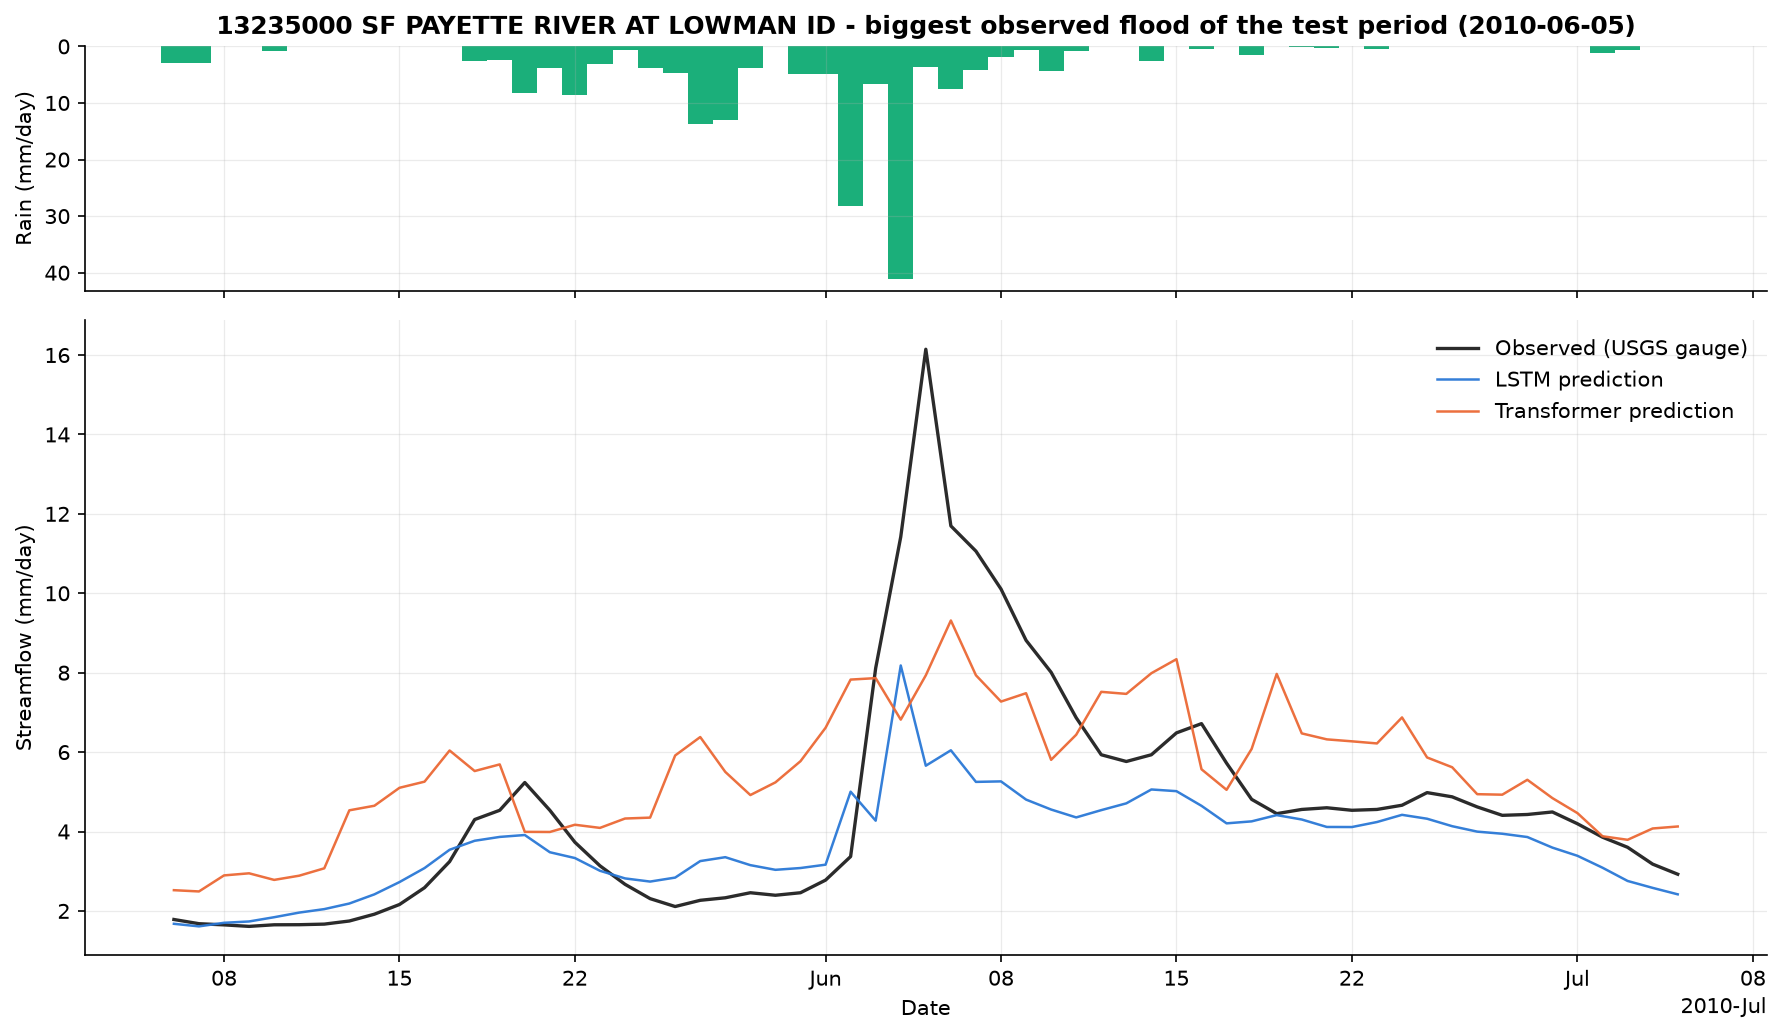
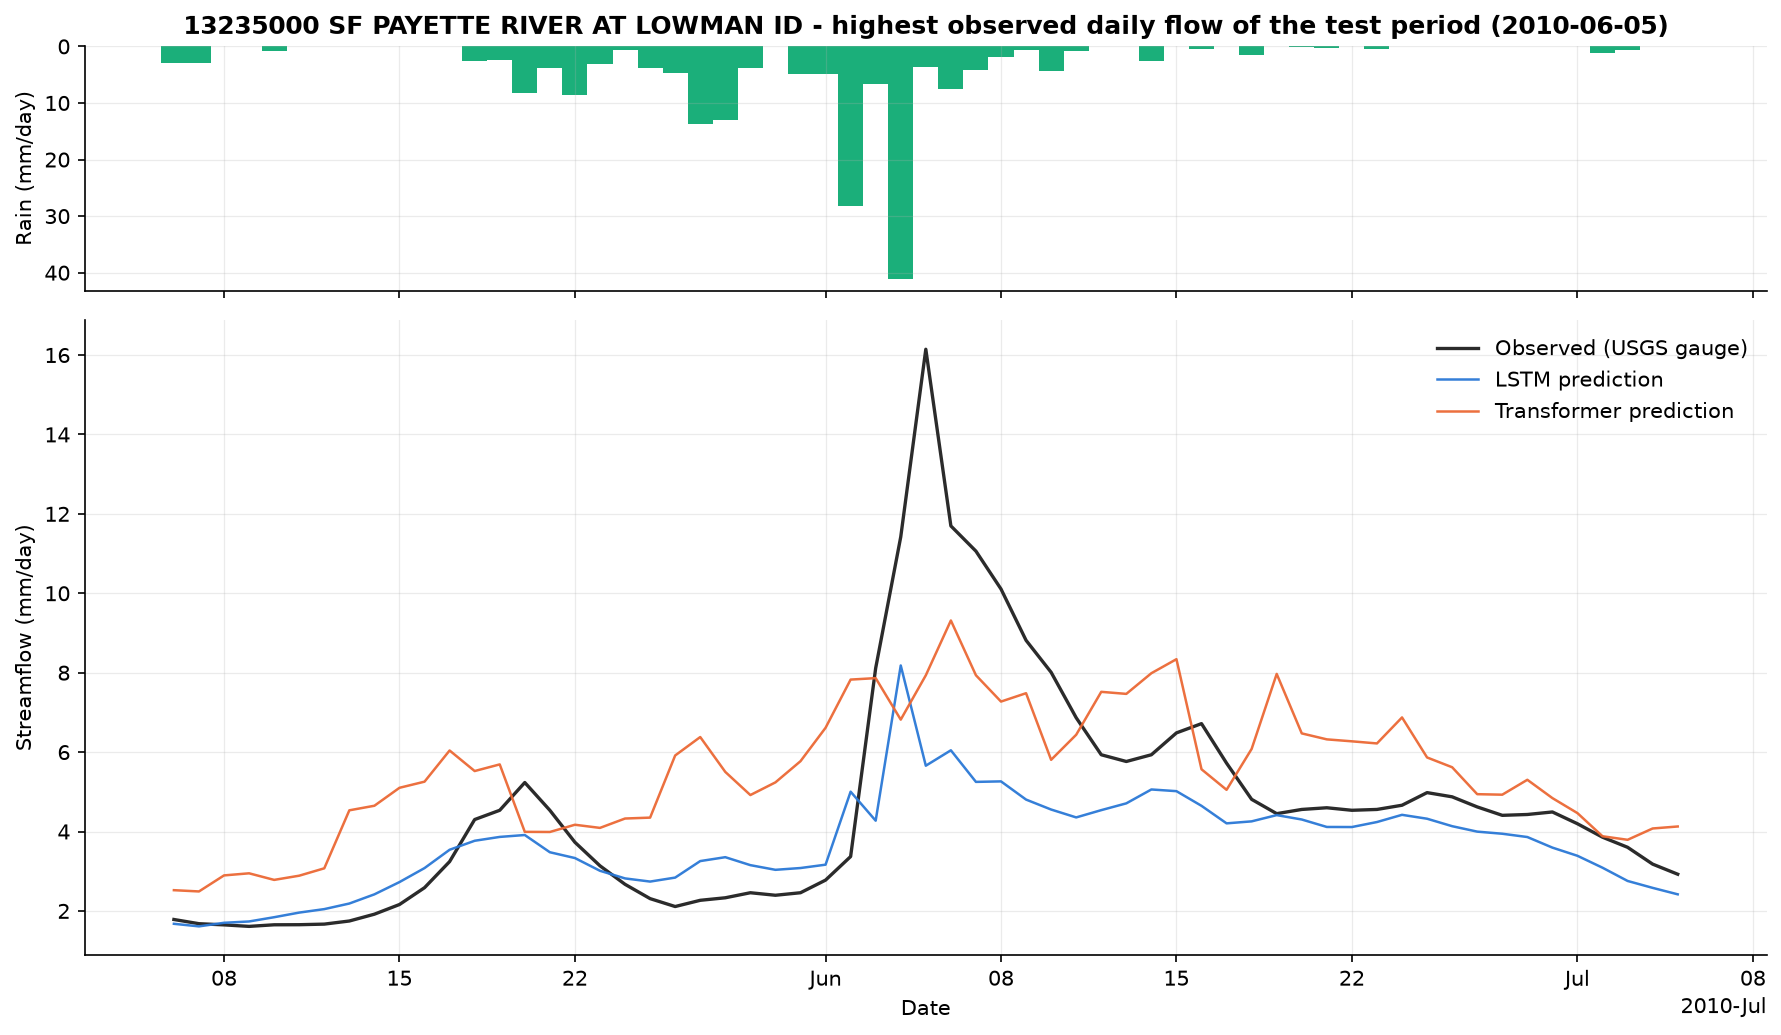
Call high-discharge days highest observed daily flow events, not floods
A high daily discharge alone does not confirm that flooding occurred. Wording updated in the app, README,
ARCHITECTURE.md, LEARNING_NOTES.md, the comparison script and its outputs; screenshots regenerated.

Changed region(s): [[0.0926, 0.0, 0.9264, 0.0309]]

diff --git a/app/streamlit_app.py b/app/streamlit_app.py
@@ -336,7 +336,7 @@ with tab_results:
                 f"The LSTM has the higher NSE in {lstm_wins} of {len(wide)} basins. Both models were trained with the same data, "
                 "inputs, split, epochs and batch size; only the architecture differs. The Transformer's validation loss was "
                 "still decreasing at the last epoch, so this is a result *at this training budget*, not a verdict on the "
-                "architecture. Both models under-predict the largest flood of the decade in every basin (see the table below)."
+                "architecture. Both models under-predict the highest daily flow of the decade in every basin (see the table below)."
             )
 
         with st.expander("Full metric details per basin and model (r, α, β, bias, peak-flow bias FHV)", expanded=False):
@@ -348,7 +348,8 @@ with tab_results:
 
         peaks = get_csv("comparison_peaks.csv")
         if peaks is not None:
-            st.markdown("**The biggest observed flood of the test decade in each basin, and what each model said that day** (mm/day)")
+            st.markdown("**The highest observed daily flow of the test decade in each basin, and what each model said that day** (mm/day). "
+                        "A high daily discharge does not by itself confirm that flooding occurred.")
             pk = peaks.rename(columns={"peak_date": "date", "rain_that_day_mm": "rain that day (mm)",
                                        "rain_prev_3_days_mm": "rain previous 3 days (mm)", "observed_mm_per_day": "observed",
                                        "lstm_mm_per_day": "LSTM", "transformer_mm_per_day": "Transformer"})
@@ -420,13 +421,13 @@ with tab_basin:
     wettest_wy = int(rain_by_wy.idxmax())
     peak_day_all = flow_all.idxmax()
     preset = st.radio("Time window", ["Whole record 1980-2014", f"Wettest water year ({wettest_wy})",
-                                      f"Largest flood on record (±45 days around {peak_day_all.date()})", "Choose a water year"],
+                                      f"Highest daily flow on record (±45 days around {peak_day_all.date()})", "Choose a water year"],
                       horizontal=True, key="basin_window")
     if preset.startswith("Whole"):
         start, end = ts.index.min(), ts.index.max()
     elif preset.startswith("Wettest"):
         start, end = wy_bounds(wettest_wy)
-    elif preset.startswith("Largest"):
+    elif preset.startswith("Highest"):
         start, end = peak_day_all - pd.Timedelta(days=45), peak_day_all + pd.Timedelta(days=45)
     else:
         wy = st.slider("Water year (1 Oct of previous year → 30 Sep)", 1981, 2014, 2010, key="basin_wy")
@@ -455,15 +456,15 @@ with tab_pred:
         wettest_test_wy = int(rain_test.groupby(E.water_year(rain_test.index)).sum().idxmax())
         best_wy = int(by_year[f"{first}_nse"].idxmax())
         worst_wy = int(by_year[f"{first}_nse"].idxmin())
-        options = [f"Largest flood of the test decade (±45 days around {peak_day.date()})",
+        options = [f"Highest daily flow of the test decade (±45 days around {peak_day.date()})",
                    "Whole test decade 2004-2014",
-                   f"Water year with the largest flood ({int(E.water_year(pd.DatetimeIndex([peak_day]))[0])})",
+                   f"Water year with the highest daily flow ({int(E.water_year(pd.DatetimeIndex([peak_day]))[0])})",
                    f"Wettest test water year ({wettest_test_wy})",
                    f"Best-predicted water year by {LABELS[first]} ({best_wy})",
                    f"Worst-predicted water year by {LABELS[first]} ({worst_wy})",
                    "Choose a water year"]
         preset = st.radio("Time window", options, horizontal=True, key="pred_window")
-        if preset.startswith("Largest flood"):
+        if preset.startswith("Highest daily flow"):
             start, end = peak_day - pd.Timedelta(days=45), peak_day + pd.Timedelta(days=45)
         elif preset.startswith("Whole"):
             start, end = pd.Timestamp(TEST[0]), pd.Timestamp(TEST[1])

diff --git a/scripts/compare.py b/scripts/compare.py
@@ -7,7 +7,7 @@
 Writes
     outputs/metrics/comparison_test.csv          per basin x model
     outputs/metrics/comparison_summary.csv       median over basins per model
-    outputs/metrics/comparison_peaks.csv         the biggest observed flood per basin and what each model predicted
+    outputs/metrics/comparison_peaks.csv         the highest observed daily flow per basin and what each model predicted
     outputs/metrics/comparison.md                markdown tables for the README
     outputs/figures/compare_hydrograph_<basin>_wy<year>.png, compare_nse.png, compare_kge.png
 """
@@ -44,7 +44,7 @@ def main() -> None:
     table.to_csv(METRIC_DIR / f"comparison_{args.period}.csv", index=False, float_format="%.4f")
     summary.to_csv(METRIC_DIR / "comparison_summary.csv", float_format="%.4f")
 
-    # hydrographs with both models, and the biggest flood of the test period per basin
+    # hydrographs with both models, and the highest observed daily flow of the test period per basin
     results = {m: load_results(p, args.period) for m, p in runs.items()}
     peak_rows = []
     for basin in results["lstm"]:
@@ -65,8 +65,8 @@ def main() -> None:
         for m in sims:
             row[f"{m}_mm_per_day"] = round(float(sims[m].loc[peak_day]), 2)
         peak_rows.append(row)
-        # zoom on the biggest flood: +-30 days
-        plot_hydrograph(obs, sims, f"{basin} {name} - biggest observed flood of the test period ({peak_day.date()})",
+        # zoom on the highest daily flow: +-30 days
+        plot_hydrograph(obs, sims, f"{basin} {name} - highest observed daily flow of the test period ({peak_day.date()})",
                         rain=rain, start=peak_day - pd.Timedelta(days=30), end=peak_day + pd.Timedelta(days=30),
                         savepath=FIGURE_DIR / f"compare_peak_{basin}.png")
     peaks = pd.DataFrame(peak_rows)
@@ -82,7 +82,7 @@ def main() -> None:
     md = ["# LSTM vs Transformer (" + args.period + " period: " + "2004-10-01 to 2014-09-30" + ")\n",
           "## Median over the six basins\n", summary.to_markdown(), "\n",
           "## Per basin\n", markdown_table(table),
-          "## Biggest observed flood per basin and what each model predicted on that day (mm/day)\n",
+          "## Highest observed daily flow per basin and what each model predicted on that day (mm/day)\n",
           peaks.to_markdown(index=False), "\n",
           "## Run details\n", pd.DataFrame(info).T.to_markdown(), "\n"]
     (METRIC_DIR / "comparison.md").write_text("\n".join(md))

diff --git a/README.md b/README.md
@@ -160,7 +160,7 @@ Median over the six basins (full tables in [`outputs/metrics/comparison.md`](out
 | 11532500 | Smith, California · winter storms | 0.75 / 0.67 | 0.59 / 0.64 |
 | 13235000 | SF Payette, Idaho · snowmelt | 0.89 / 0.79 | 0.64 / 0.71 |
 
-### Extreme events: the biggest flood of the decade in each basin
+### Extreme events: the highest observed daily flow of the decade in each basin
 
 | Basin | Date | Rain that day | Rain previous 3 days | Observed | LSTM | Transformer |
 |---|---|---:|---:|---:|---:|---:|
@@ -171,12 +171,12 @@ Median over the six basins (full tables in [`outputs/metrics/comparison.md`](out
 | Smith | 2008-12-28 | 90.3 mm | 67.7 mm | 118.4 | 36.2 | 34.2 |
 | SF Payette | 2010-06-05 | 3.6 mm | 75.8 mm | 16.2 | 5.7 | 7.9 |
 
-<sub>Flows in mm/day. Both models under-predict every one of these peaks by a factor of two to three.</sub>
+<sub>Flows in mm/day. Both models under-predict every one of these peaks by a factor of two to three. A high daily discharge does not by itself confirm that flooding occurred, so these are called high-flow events, not floods.</sub>
 
 <p align="center">
-<img src="outputs/figures/compare_peak_11532500.png" width="92%" alt="The biggest flood of the test decade on the Smith River and what each model predicted">
+<img src="outputs/figures/compare_peak_11532500.png" width="92%" alt="The highest daily flow of the test decade on the Smith River and what each model predicted">
 </p>
-<p align="center"><i>Smith River, California, December 2008: four days of 50 to 90 mm of rain, a 118 mm/day observed peak, and two models that saturate near 35 mm/day.</i></p>
+<p align="center"><i>Smith River, California, December 2008, the highest daily flow of the test decade: four days of 50 to 90 mm of rain, a 118 mm/day observed peak, and two models that saturate near 35 mm/day.</i></p>
 
 <table align="center">
 <tr>
@@ -185,7 +185,7 @@ Median over the six basins (full tables in [`outputs/metrics/comparison.md`](out
 </tr>
 <tr>
 <td><i>South Fork Payette (Idaho), water year 2011: winter precipitation is stored as snow and released in May to July. The LSTM's recurrent state tracks the slow release; the Transformer is noisier and early.</i></td>
-<td><i>Blanco River (Texas), October 2013: 87 mm of rain on a dry basin produced 38 mm/day; both models predicted about 17. Flash floods on dry soils remain the hardest case.</i></td>
+<td><i>Blanco River (Texas), October 2013: 87 mm of rain on a dry basin produced 38 mm/day; both models predicted about 17. Sharp responses on dry soils remain the hardest case.</i></td>
 </tr>
 </table>
 
@@ -196,7 +196,7 @@ Median over the six basins (full tables in [`outputs/metrics/comparison.md`](out
 * This is **not a verdict on Transformers**: the Transformer's validation loss was still falling at epoch 30, it has three
   times the parameters to fit from about 41 000 samples, and nothing was tuned. The fair, reproducible pipeline for a
   bigger comparison is the deliverable.
-* **Extreme flows are under-predicted by both models.** The largest flood of the decade is missed by a factor of two to
+* **Extreme flows are under-predicted by both models.** The highest daily flow of the decade is missed by a factor of two to
   three in every basin; peak-flow bias (FHV) is negative almost everywhere. Rare events are a handful of days in 19
   training years and the NSE loss gives them no special weight.
 * **Dry basins are hard.** The LSTM over-predicts low flows in the Blanco basin (+68 % volume, KGE 0.29) and never produces
@@ -248,13 +248,13 @@ streamlit run app/streamlit_app.py --server.port 8502
 <p align="center">
 <img src="docs/images/app_results_tab.png" width="92%" alt="Neural Hydrology Explorer, results overview tab">
 </p>
-<p align="center"><i>Results overview: both models side by side, per basin and as a median, with the biggest-flood table and run details.</i></p>
+<p align="center"><i>Results overview: both models side by side, per basin and as a median, with the highest-flow-event table and run details.</i></p>
 
 | Tab | What it shows |
 |---|---|
 | **📊 Results overview** | LSTM vs Transformer table with a median row, Δ per basin, NSE / KGE charts, extreme-event table, run details, CSV download |
 | **🗺 Basin & weather** | map of the six gauges, attributes with meanings, water balance, rain + temperature + flow with one-click windows |
-| **📈 Predictions** | observed vs predicted hydrograph with windows that pick themselves (largest flood, wettest year, best / worst year), year-by-year scores, scatter, flow-duration curve, seasonal regime |
+| **📈 Predictions** | observed vs predicted hydrograph with windows that pick themselves (highest flow, wettest year, best / worst year), year-by-year scores, scatter, flow-duration curve, seasonal regime |
 | **🚨 Flood thresholds** | educational 2 / 5 / 10-year return levels from the pre-test annual maxima (the Flood Hub warning / danger / extreme idea), with hits, misses and false alarms per model |
 | **ℹ Methods & glossary** | exact inputs, target, split, model sizes; plain-English definitions |
 

diff --git a/ARCHITECTURE.md b/ARCHITECTURE.md
@@ -14,7 +14,7 @@ USGS gauge), trains two deep-learning *rainfall-runoff* models with the NeuralHy
 baseline and a **Transformer** experiment) under an identical protocol, evaluates both on a held-out decade
 (2004–2014) with hydrology metrics (NSE, KGE, peak-flow bias), draws hydrographs, and presents everything in a
 Streamlit app with a Flood-Hub-style educational flood-threshold view. Key result: at the same training budget
-the LSTM (median test NSE 0.80) clearly beats the Transformer (0.45); both under-predict the largest floods.
+the LSTM (median test NSE 0.80) clearly beats the Transformer (0.45); both under-predict the highest flow events.
 
 ---
 
@@ -58,7 +58,7 @@ runs/<experiment>_<stamp>/           (git-ignored: weights model_epochXXX.pt, co
 outputs/predictions/<model>_test.csv  (basin, date, obs, sim in mm/day; committed, ~0.7 MB each)
 outputs/metrics/<model>_test_metrics.csv
    │
-   │   scripts/compare.py       — LSTM vs Transformer: per-basin table, medians, biggest-flood table,
+   │   scripts/compare.py       — LSTM vs Transformer: per-basin table, medians, highest-flow-event table,
    │                               run details, comparison figures, comparison.md
    ▼
 outputs/metrics/comparison_test.csv, comparison_summary.csv, comparison_peaks.csv, run_details.csv, comparison.md
@@ -209,7 +209,7 @@ Test decade 2004–2014, median over the six basins (`outputs/metrics/comparison
 | Transformer | 0.451 | 0.641 | 0.701 | 0.772 | 1.032 | −21.2 |
 
 Per-basin numbers: `outputs/metrics/comparison_test.csv` (long format: basin, model, nse, kge, r, alpha, beta,
-rmse, mae, pbias, fhv, n_days, run_dir). Biggest flood per basin and what each model predicted that day:
+rmse, mae, pbias, fhv, n_days, run_dir). Highest observed daily flow per basin and what each model predicted that day:
 `outputs/metrics/comparison_peaks.csv`. Everything as Markdown: `outputs/metrics/comparison.md`.
 
 Metric meanings (`src/nhplay/evaluation/metrics.py`):
@@ -221,7 +221,7 @@ Metric meanings (`src/nhplay/evaluation/metrics.py`):
 
 Honest interpretation: the LSTM wins on every basin by NSE at this budget; the Transformer's validation loss was
 still falling at epoch 30 and nothing was tuned, so this is a budget-limited result, consistent with the
-literature (Liu et al. 2025, HESS). Both models under-predict the biggest flood of the decade in every basin by a
+literature (Liu et al. 2025, HESS). Both models under-predict the highest daily flow of the decade in every basin by a
 factor 2–3 (e.g. Smith River 2008-12-28: observed 118 mm/day, LSTM 36, Transformer 34). The LSTM over-predicts
 low flows in the dry Blanco basin (PBIAS +68 %).
 
@@ -232,7 +232,7 @@ low flows in the dry Blanco basin (PBIAS +68 %).
 | `data_<basin>_wy2010.png`, `data_<basin>_full.png` | rain (inverted bars), temperature, observed flow — one water year and the full record |
 | `hydrograph_<model>_<basin>_wy2011.png`, `..._test_full.png` | observed vs one model, with rain on top |
 | `compare_hydrograph_<basin>_wy2011.png`, `..._test_full.png` | observed vs both models |
-| `compare_peak_<basin>.png` | ±30 days around the biggest observed flood of the test decade |
+| `compare_peak_<basin>.png` | ±30 days around the highest observed daily flow of the test decade |
 | `compare_nse.png`, `compare_kge.png` | grouped bars per basin and model |
 | `scatter_<model>_test.png` | observed vs predicted, all basins pooled, 1:1 line |
 | `fdc_<model>_<basin>_test.png` | flow duration curves (log scale) |
@@ -245,10 +245,10 @@ Reads only `data/` and `outputs/`. Sidebar: basin, model (LSTM / Transformer / B
 setup. Five tabs:
 
 1. **Results overview** — side-by-side NSE/KGE table with median row and progress bars, Δ per basin, NSE and
-   KGE bar charts, a one-paragraph reading, full metric details, biggest-flood table, run details, CSV downloads.
+   KGE bar charts, a one-paragraph reading, full metric details, highest-flow-event table, run details, CSV downloads.
 2. **Basin & weather** — key attributes, a map of the six gauges, long-term water balance, all 18 static inputs,
-   rain + temperature + flow with presets (whole record, wettest year, largest flood on record, any water year).
-3. **Predictions** — hydrograph with self-selecting windows (largest flood of the test decade, whole decade,
+   rain + temperature + flow with presets (whole record, wettest year, highest daily flow on record, any water year).
+3. **Predictions** — hydrograph with self-selecting windows (highest daily flow of the test decade, whole decade,
    wettest / best-predicted / worst-predicted year), scores for the decade and for the window, plain-English
    reading, year-by-year table, scatter, flow-duration curve, seasonal regime.
 4. **Flood thresholds** — educational 2/5/10-year return levels from the 1981–2004 annual maxima (the Flood Hub

diff --git a/LEARNING_NOTES.md b/LEARNING_NOTES.md
@@ -332,8 +332,9 @@ Lessons that generalise beyond this run:
    the compute, and was still improving at epoch 30, so this result says "LSTM wins at this budget", not
    "Transformers cannot work". The configs are there to test longer training, learning-rate schedules and
    seeds; just keep the test decade untouched.
-3. **Floods are the hard part.** Both models missed the biggest event of the decade in every basin by a factor
-   of two to three. The training loss treats every day equally and the biggest floods are a handful of days
+3. **Extreme flows are the hard part.** Both models missed the highest daily flow of the decade in every basin by a
+   factor of two to three (a high discharge does not by itself prove flooding, so we say high-flow event). The
+   training loss treats every day equally and the highest flows are a handful of days
    in 19 years. Return-period-aware evaluation, probabilistic heads (CMAL) and more basins are the standard
    responses; see the README's research extensions.
 4. **Dry rivers are hard too.** The LSTM never predicts the zero flows that the Blanco River shows on 22 % of

diff --git a/outputs/metrics/comparison.md b/outputs/metrics/comparison.md
@@ -25,7 +25,7 @@
 | 11532500 | transformer | 0.593 | 0.638 | 0.772 | 0.718 | 1.007 | 0.678 | -39.650 |
 | 13235000 | transformer | 0.643 | 0.706 | 0.876 | 1.180 | 1.196 | 19.587 | 11.487 |
 
-## Biggest observed flood per basin and what each model predicted on that day (mm/day)
+## Highest observed daily flow per basin and what each model predicted on that day (mm/day)
 
 |    basin | name                                    | peak_date   |   rain_that_day_mm |   rain_prev_3_days_mm |   observed_mm_per_day |   lstm_mm_per_day |   transformer_mm_per_day |
 |---------:|:----------------------------------------|:------------|-------------------:|----------------------:|----------------------:|------------------:|-------------------------:|
